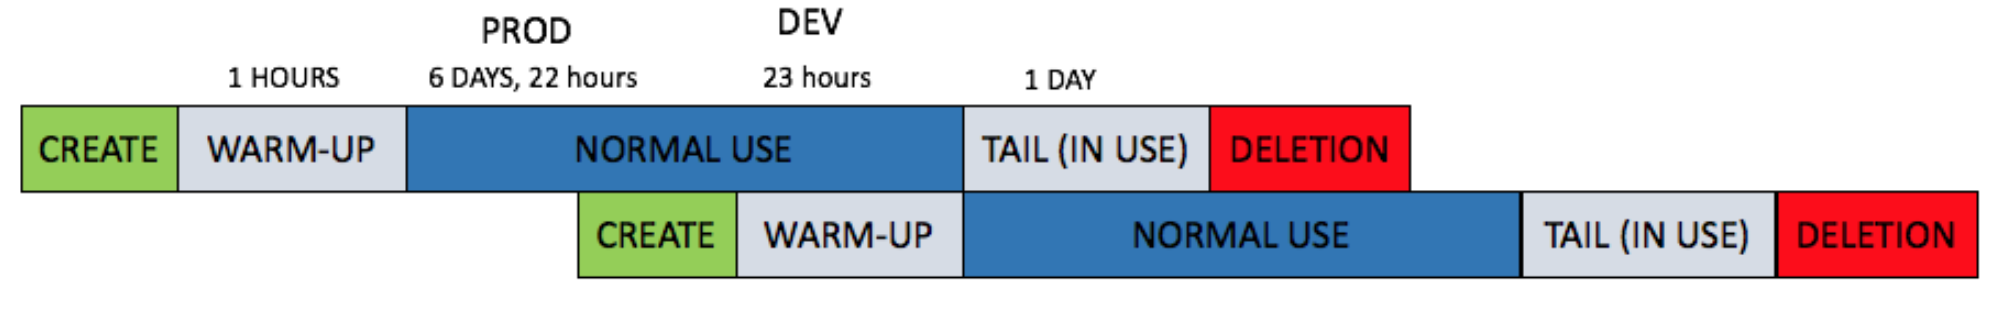
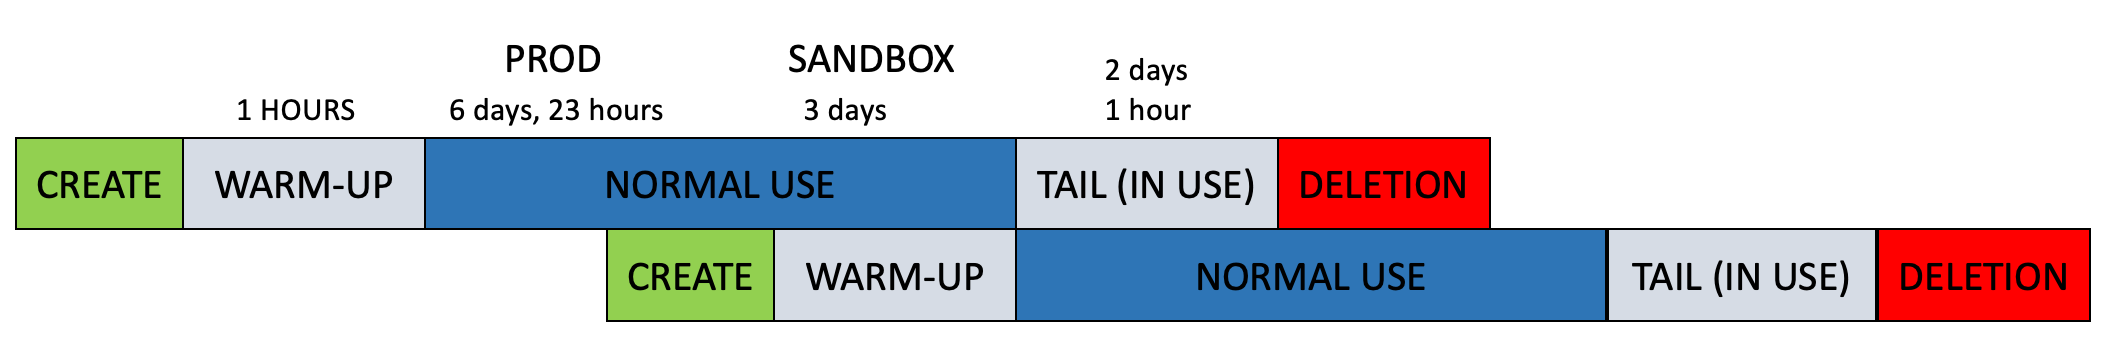
key rotation changes

Changed region(s): [[0.0, 0.0283, 0.988, 0.9057], [0.5558, 0.6792, 0.6793, 0.8208], [0.2779, 0.4245, 0.4014, 0.566]]

diff --git a/README.md b/README.md
@@ -6,7 +6,7 @@ SPDX-License-Identifier: LicenseRef-OpPohjolaAllRightsReserved
 
 # Service Provider API for OP Identity Service Broker
 
-2024-08-27
+2026-02-16
 
 OP Identification Service Broker allows Service Providers to implement strong electronic identification (Finnish bank credentials, Mobile ID) easily to websites and mobile apps via single API.
 
